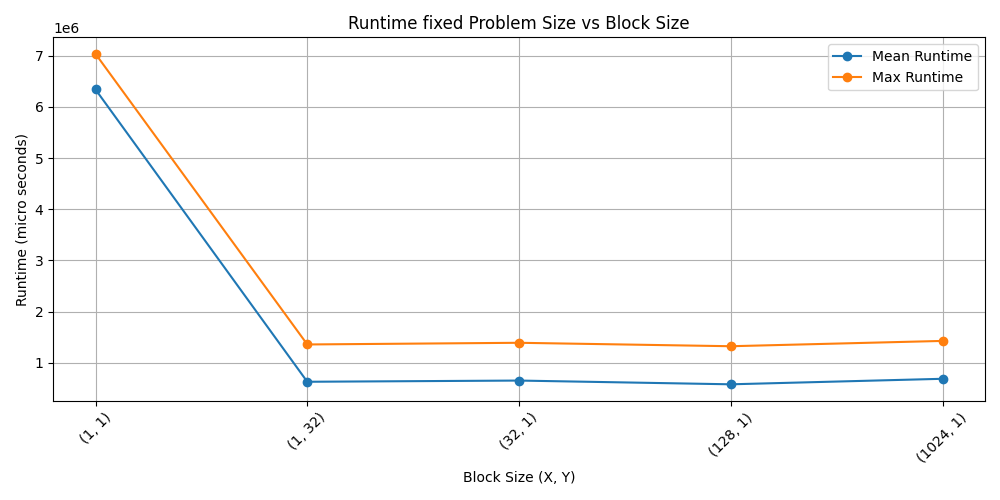
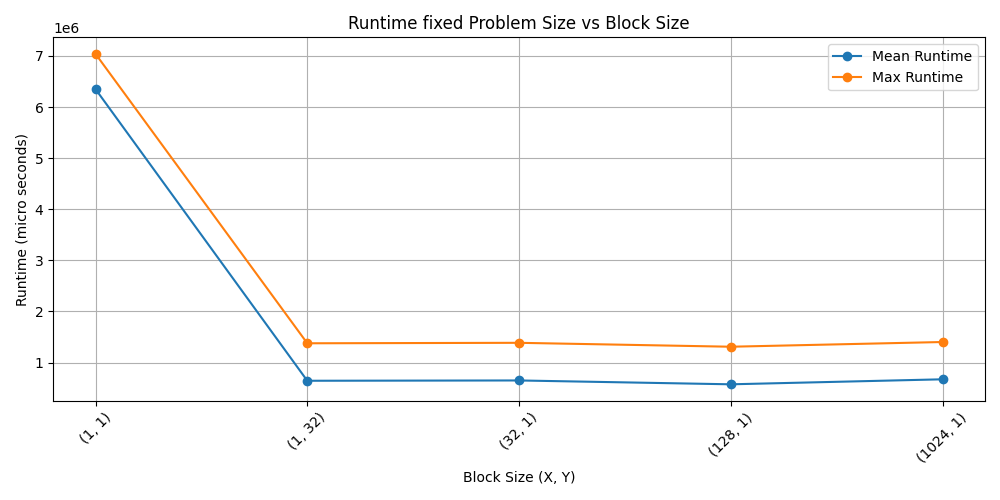
Update results and scripts for scalability analysis; adjust timeout and output values, add new plots and results files

diff --git a/julia_cuda/test_block_4.py b/julia_cuda/test_block_4.py
@@ -33,10 +33,10 @@ for block_size_tuple in tqdm(block_sizes):
         print("Running CPU version")
         try:
             cmd2 = f"./juliaset_cpu -r {size} {size} -n {reps}"
-            output2 = subprocess.check_output(cmd2, shell=True, text=True,timeout=7)
+            output2 = subprocess.check_output(cmd2, shell=True, text=True,timeout=15)
         except subprocess.TimeoutExpired:
             print(f"CPU command timed out for size {size}. Skipping this size.")
-            output2 = "0;200;200;0.5;-1;-1;70000000"   
+            output2 = "0;200;200;0.5;-1;-1;150000000"   
         # Parse output lines
         # Example line format: rep;res_x;res_y;scale;global_block_x;global_block_y;runtime_str
         parsed_lines = [line.strip().split(';') for line in output.strip().split('\n') if line.strip()]
